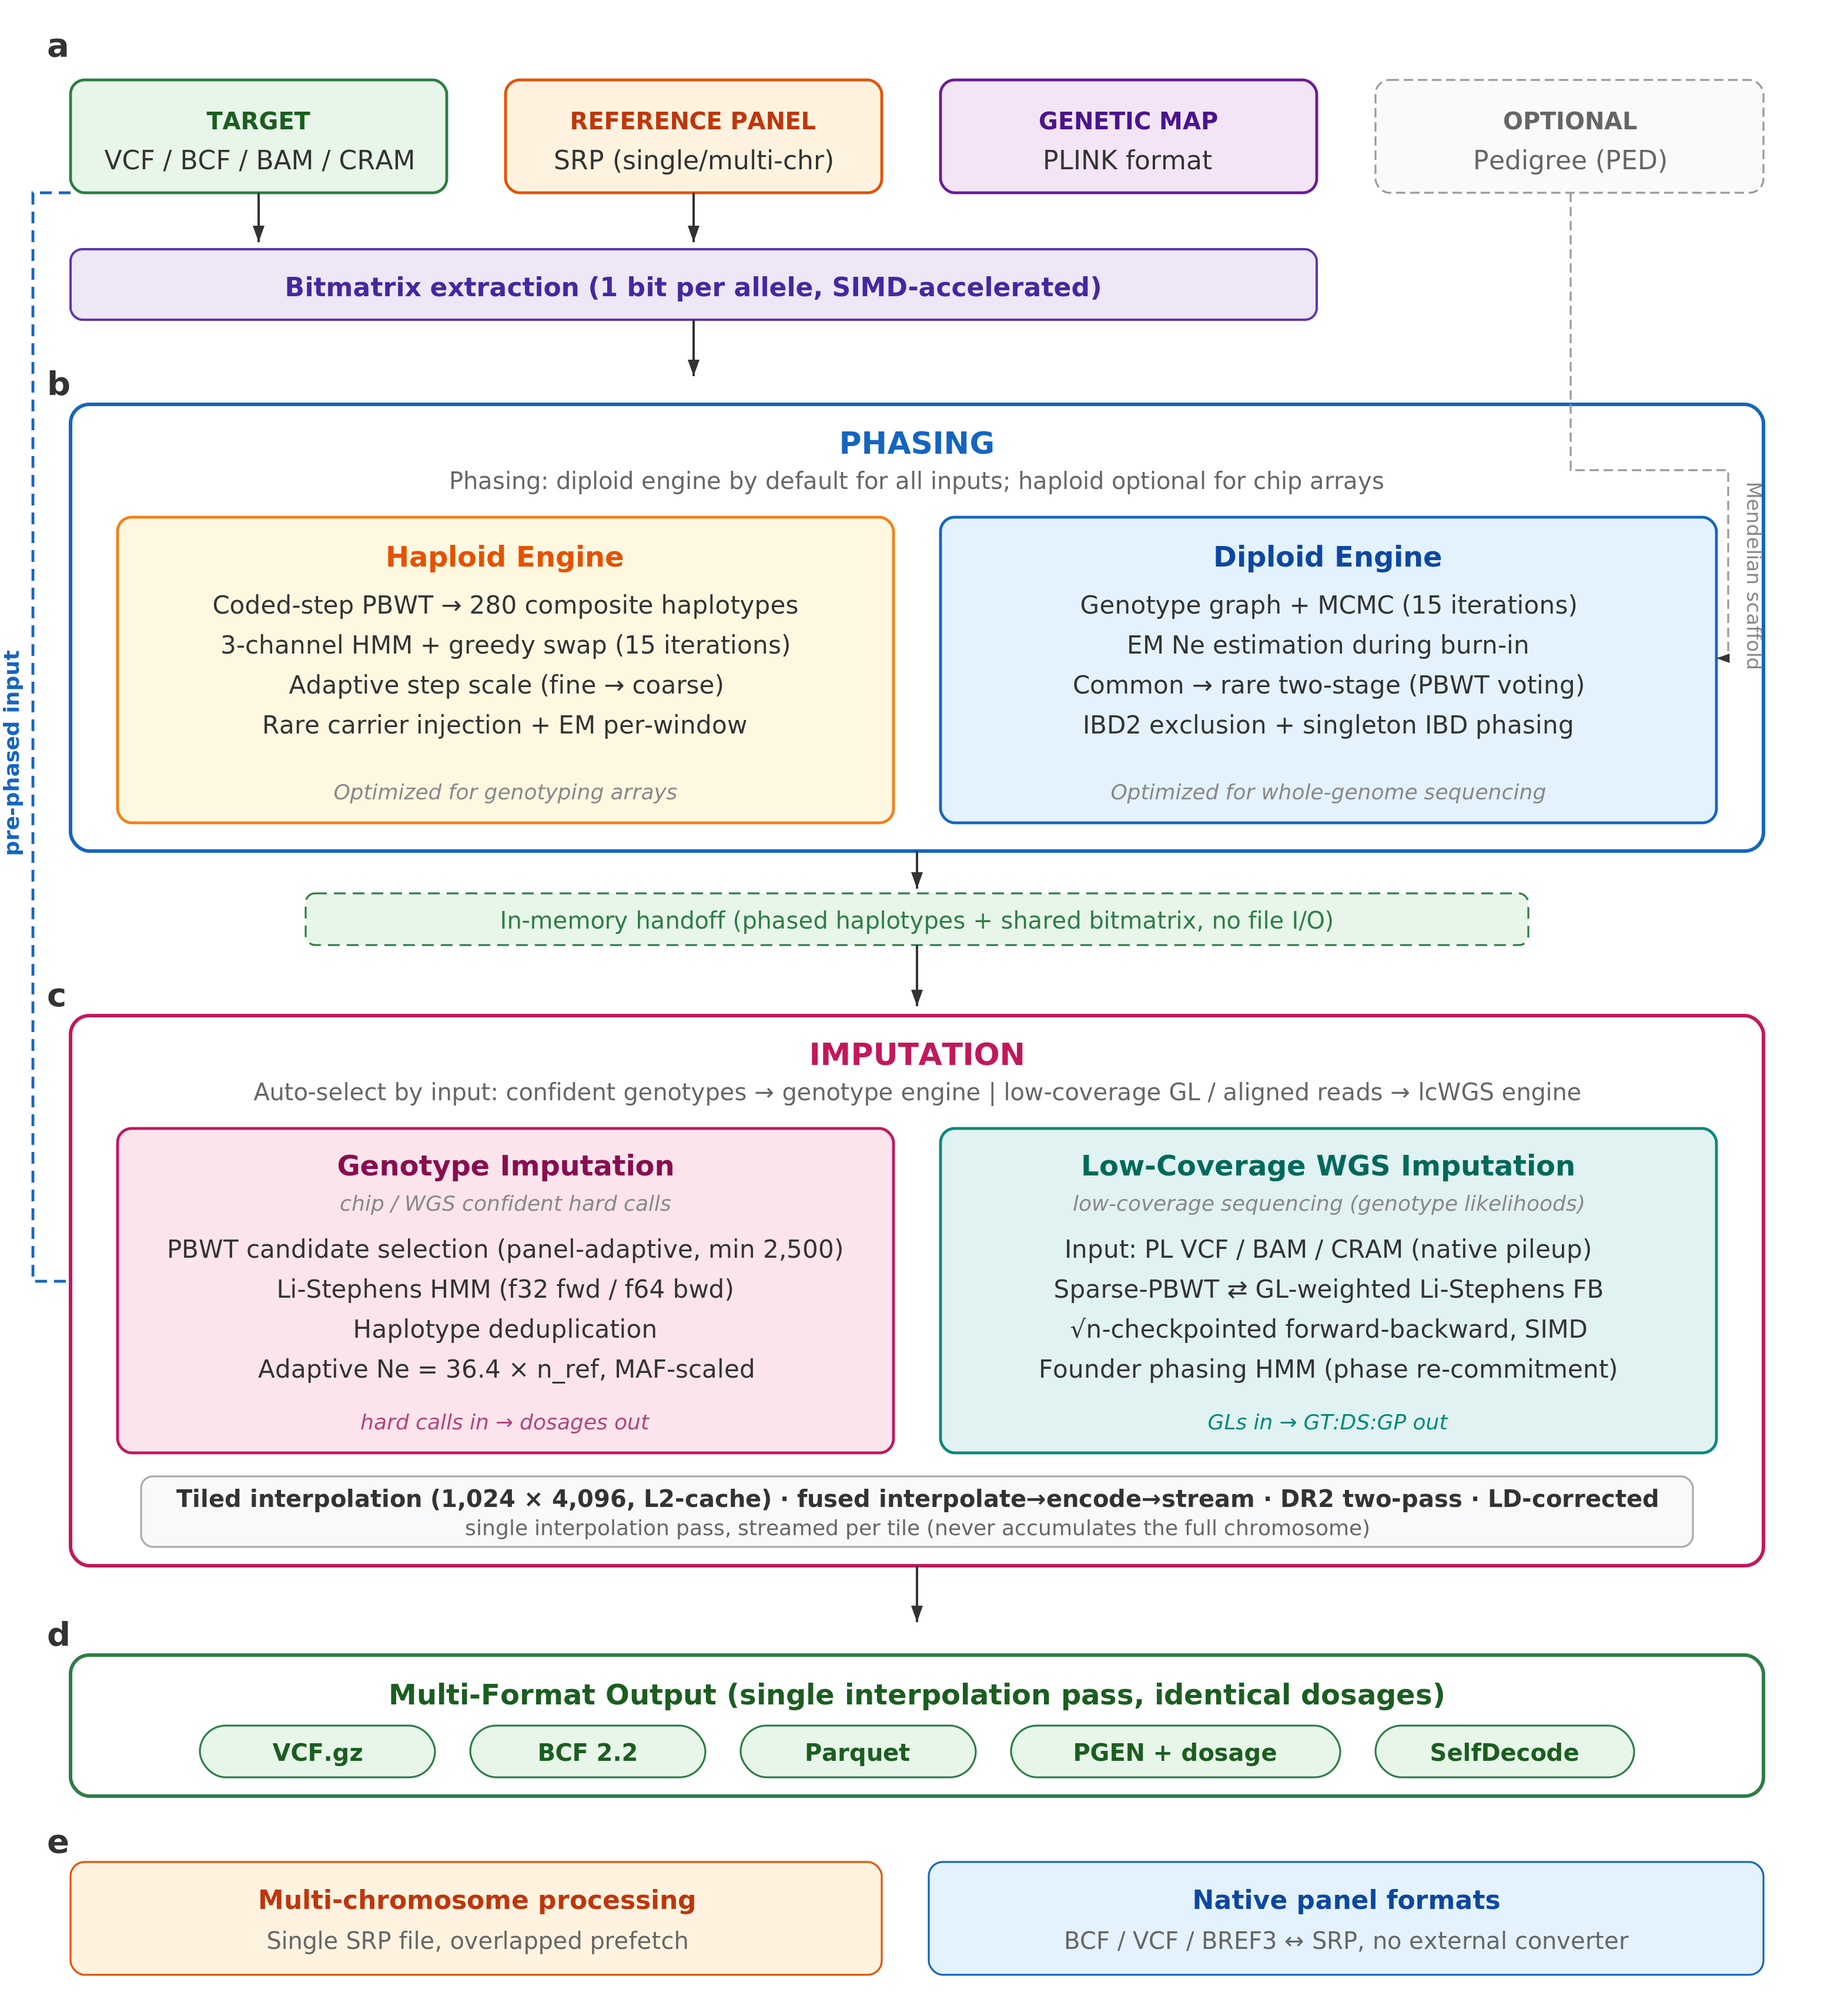
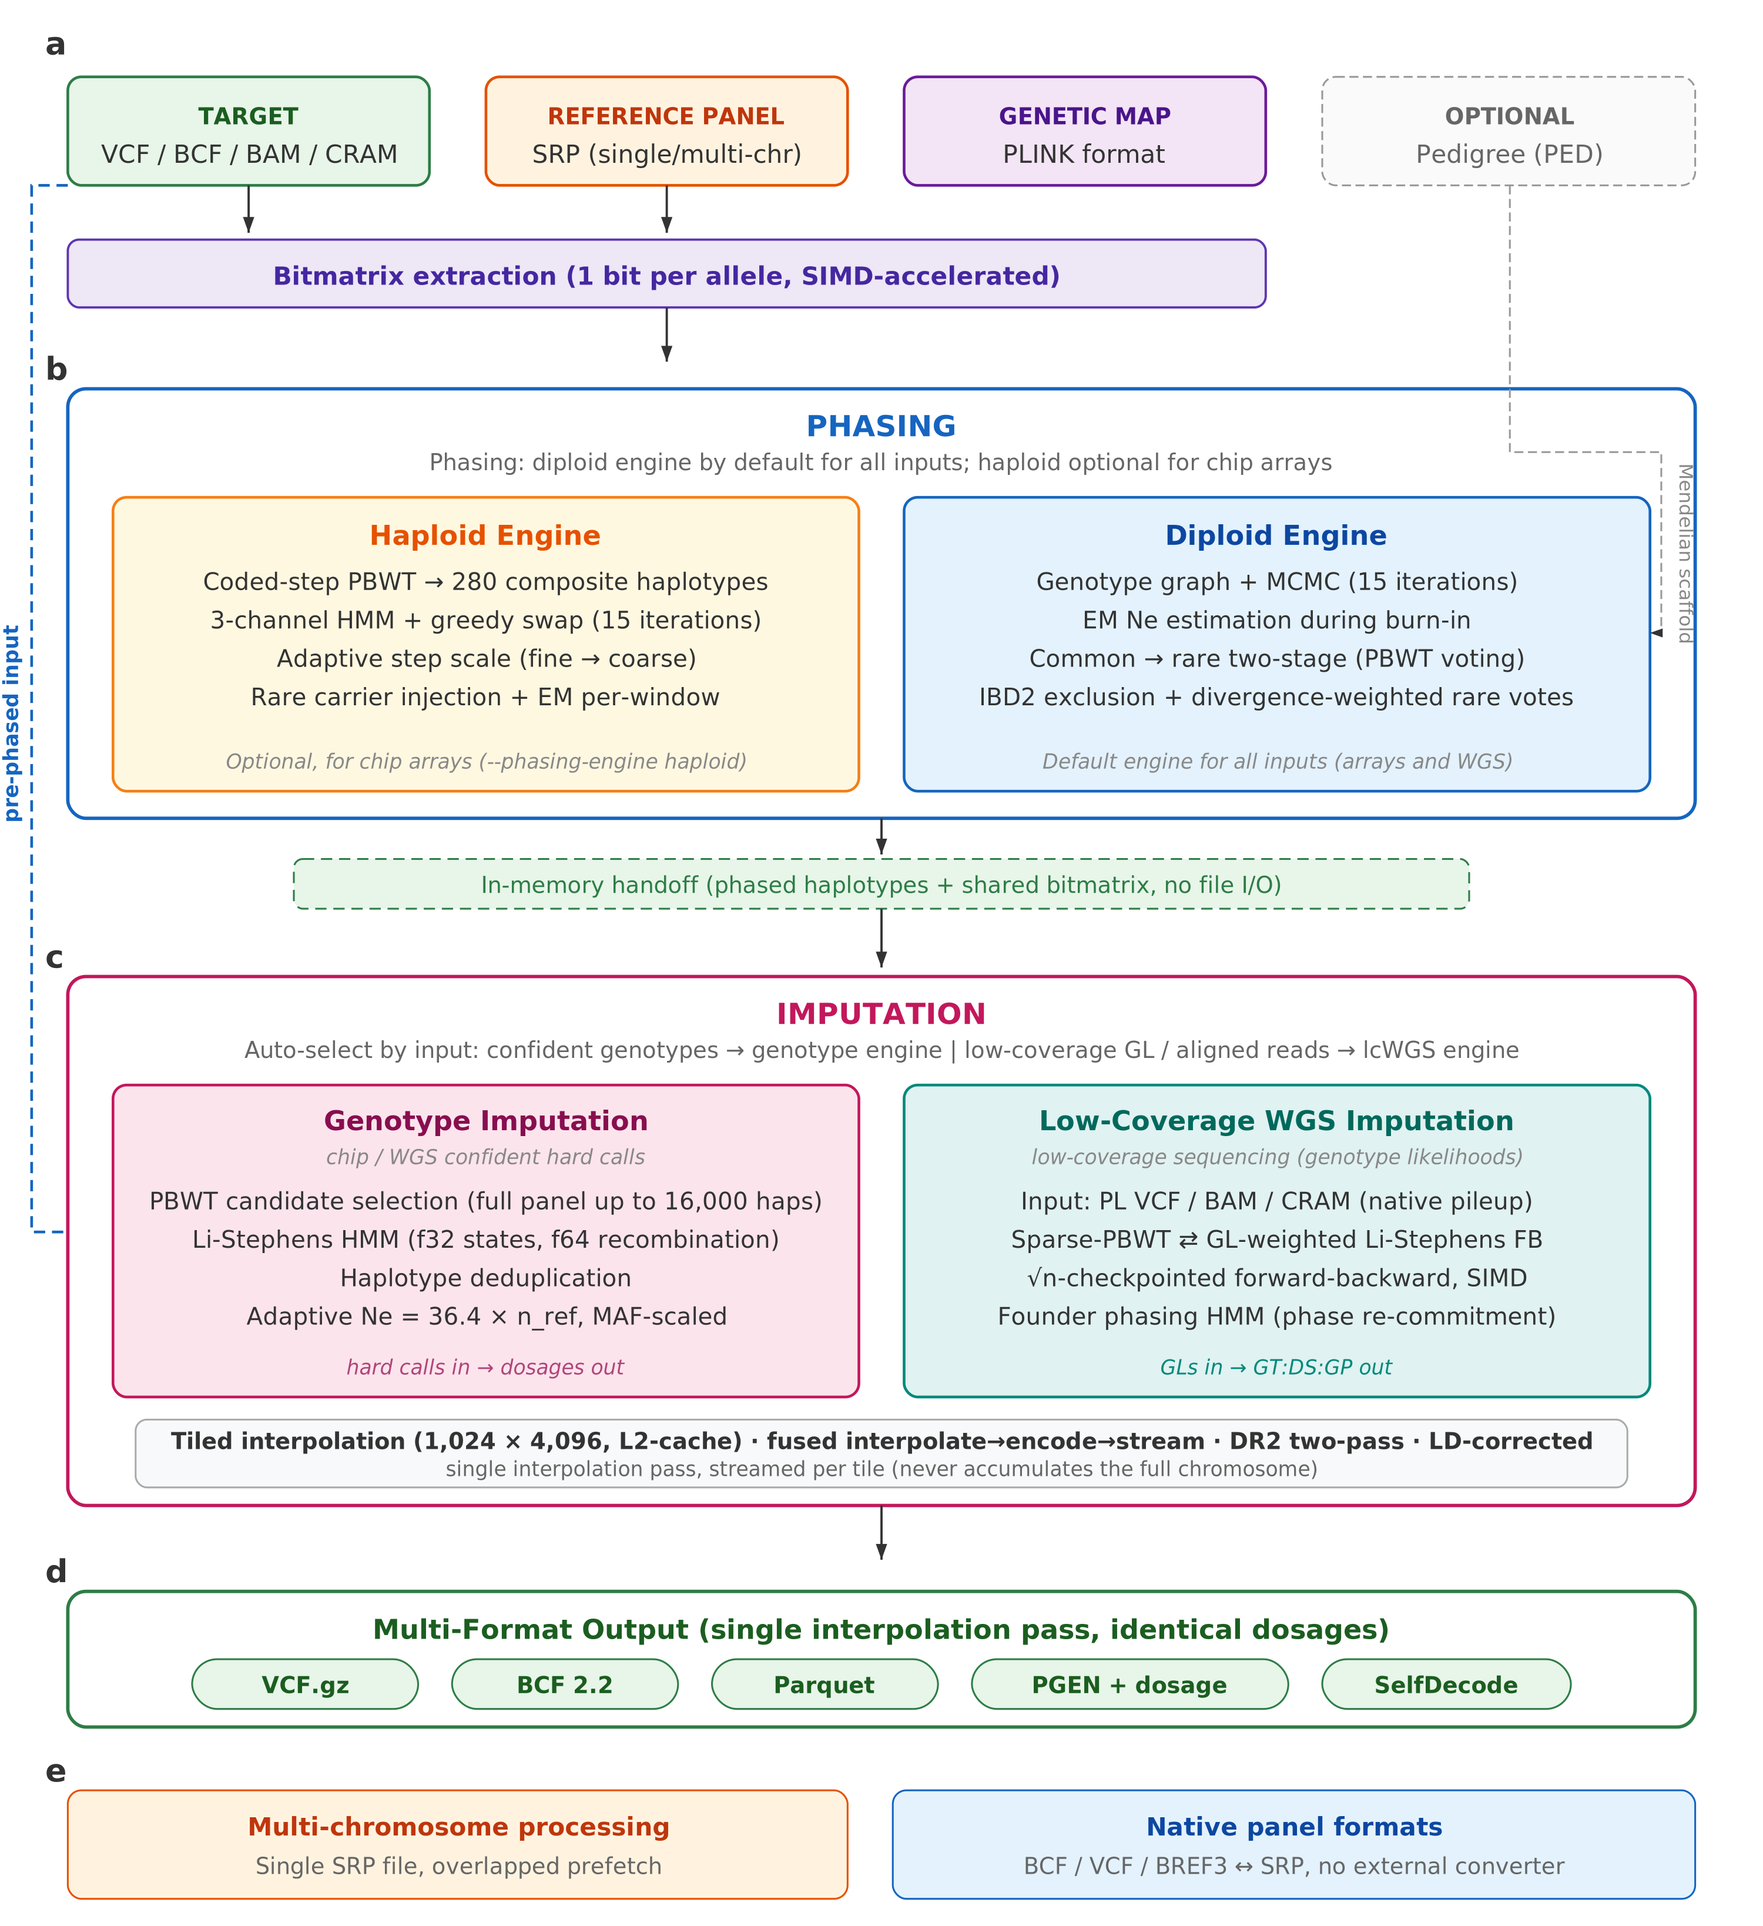
Figure 1 and Methods: diploid is the default engine for all inputs, singletons by PBWT match length, full panel up to 16,000 haplotypes, f32 states with f64 recombination, Ne bound array-only

diff --git a/paper/selphi2_paper.md b/paper/selphi2_paper.md
@@ -30,7 +30,7 @@ We describe the algorithms (Methods) and then benchmark the likelihood engine on
 
 ![Figure 1](figure1_pipeline.png)
 
-**Figure 1. Overview of the Selphi 2 pipeline.** The pipeline accepts unphased or phased target genotypes in VCF/BCF format, a reference panel in SRP format (single- or multi-chromosome), and a genetic map. If the input is unphased, phasing is performed first; by default the diploid engine (genotype graph with MCMC sampling) is used for all inputs, with the haploid engine (composite HMM with three-channel greedy swap) selectable for chip arrays. The diploid engine operates in two stages: common variants (MAF ≥ 0.1%) are phased via iterative MCMC with EM-estimated effective population size, then rare variants are phased onto the common-variant scaffold using bidirectional PBWT sweeps with IBD2-aware neighbor exclusion and singleton IBD phasing. When pedigree information is available, Mendelian constraints are applied before the HMM to pre-phase deterministic parent-child configurations. Phased haplotypes are passed directly in memory to the imputation stage with no intermediate file I/O. Imputation uses a coded-step PBWT to select candidate reference haplotypes per target, with the per-target candidate-set size set automatically as a function of panel size and panel diversity (Candidate selection and HMM, below). After haplotype deduplication, a Li-Stephens HMM (32-bit state vectors in both passes, with 64-bit recombination terms and row sums) computes per-site posterior weights, with an effective population size that scales linearly with panel size ($N_e \approx 36.4 \times n_\text{ref}$, consistent across panels from 5,000 to 171,000 haplotypes) and is further adjusted per site by minor allele frequency. The HMM weights are interpolated to full reference-panel density using cache-friendly 2D tiles, with interpolation fused to output encoding so that no chromosome-wide interpolated dosage matrix is materialized. Five output formats are supported from a single interpolation pass: VCF.gz, BCF 2.2, Apache Parquet, PLINK2 PGEN with dosage, and SelfDecode per-sample Parquet archives. For sequencing input at low or uneven depth (uniform 0.5-4$\times$ low-pass genomes, or capture libraries with a low-pass off-target background), a dedicated genotype-likelihood-aware engine (`--lcwgs` / `--engine lcwgs`) replaces the standard phase-and-impute path: it accepts a PL VCF/BCF or aligned reads (BAM/CRAM, with native pileup), and alternates sparse-PBWT haplotype selection with a GL-weighted Li-Stephens forward-backward ($\sqrt{n}$-checkpointed, SIMD-accelerated) and an eight-founder phasing HMM re-committed at every Gibbs iteration, emitting GT:DS:GP against the same reference panel and output formats. Auxiliary capabilities include multi-chromosome processing from a single SRP file with overlapped prefetch.
+**Figure 1. Overview of the Selphi 2 pipeline.** The pipeline accepts unphased or phased target genotypes in VCF/BCF format, a reference panel in SRP format (single- or multi-chromosome), and a genetic map. If the input is unphased, phasing is performed first; by default the diploid engine (genotype graph with MCMC sampling) is used for all inputs, with the haploid engine (composite HMM with three-channel greedy swap) selectable for chip arrays. The diploid engine operates in two stages: common variants (MAF ≥ 0.1%) are phased via iterative MCMC with EM-estimated effective population size, then rare variants are phased onto the common-variant scaffold using bidirectional PBWT sweeps with IBD2-aware neighbor exclusion, the second pass weighting neighbours by PBWT match length so that a singleton is placed on the haplotype with the shorter match. When pedigree information is available, Mendelian constraints are applied before the HMM to pre-phase deterministic parent-child configurations. Phased haplotypes are passed directly in memory to the imputation stage with no intermediate file I/O. Imputation uses a coded-step PBWT to select candidate reference haplotypes per target, with the per-target candidate-set size set automatically as a function of panel size and panel diversity (Candidate selection and HMM, below). After haplotype deduplication, a Li-Stephens HMM (32-bit state vectors in both passes, with 64-bit recombination terms and row sums) computes per-site posterior weights, with an effective population size that scales linearly with panel size ($N_e \approx 36.4 \times n_\text{ref}$, consistent across panels from 5,000 to 171,000 haplotypes) and is further adjusted per site by minor allele frequency. The HMM weights are interpolated to full reference-panel density using cache-friendly 2D tiles, with interpolation fused to output encoding so that no chromosome-wide interpolated dosage matrix is materialized. Five output formats are supported from a single interpolation pass: VCF.gz, BCF 2.2, Apache Parquet, PLINK2 PGEN with dosage, and SelfDecode per-sample Parquet archives. For sequencing input at low or uneven depth (uniform 0.5-4$\times$ low-pass genomes, or capture libraries with a low-pass off-target background), a dedicated genotype-likelihood-aware engine (`--lcwgs` / `--engine lcwgs`) replaces the standard phase-and-impute path: it accepts a PL VCF/BCF or aligned reads (BAM/CRAM, with native pileup), and alternates sparse-PBWT haplotype selection with a GL-weighted Li-Stephens forward-backward ($\sqrt{n}$-checkpointed, SIMD-accelerated) and an eight-founder phasing HMM re-committed at every Gibbs iteration, emitting GT:DS:GP against the same reference panel and output formats. Auxiliary capabilities include multi-chromosome processing from a single SRP file with overlapped prefetch.
 
 # **Methods**
 
@@ -66,7 +66,7 @@ Phase is sampled by MCMC on the genotype graph over 15 iterations in the scheme 
 
 By default the diploid engine forms a small **intra-run phase ensemble**, which integrates over phase uncertainty for one extra imputation pass and no extra phasing. Each main MCMC iteration draws a complete diplotype configuration, a sample from the phase posterior that the chain would otherwise discard in favour of the final Viterbi solve. The Viterbi solve and a thinned subset of these samples are kept as N phase members (default N = 2) from the one chain. Each member is carried through rare-variant phasing and imputation, and the per-haplotype Li-Stephens copying weights are averaged across members before interpolation. Because the dosage is linear in those weights (dosage = Σ w · panel allele, normalised by Σ w), the averaged weights give the members' mean dosage. The identity is exact up to the per-row sparsity threshold on the weights, whose effect we measured at $10^{-6}$ in per-sample $R^2$ on chromosome 22. The cost is one phasing plus N imputation passes, with the panel read and interpolation shared, rather than the N phasings of a conventional ensemble. On the consumer-array benchmark N = 2 adds ≈25-30 % wall time and raises the diploid engine's genome-wide SNP $R^2$ from 0.9588 to 0.9605 on top of the no-call fix (0.9609 in the current release; Results, Table 5). The ensemble is off (N = 1) under `--sample-batch-size` and `--phase-only`. The haploid engine does not use it, because its greedy swap converges to one solution rather than sampling a posterior.
 
-During burn-in the effective population size ($N_e$) is re-estimated from the genotype graphs by inverting the Li-Stephens relation^2^ $\mathrm{rate} \approx 0.04 \times N_e \times d / n_\text{haps}$, where $d$ is the mean inter-marker distance in cM. The rate used is the number of diplotype-graph transitions per variant, an edge count rather than a fraction of sites, so the estimate overshoots and settles at its upper bound. That bound, $\min(77.5 \times n_\text{haps}, 10^6)$ with a floor of 1,000, therefore sets the phasing $N_e$: the per-cM switch rate is constant below 12,904 haplotypes and decays as $1/n_\text{haps}$ above. An update is applied only if it changes $N_e$ by more than 5%.
+During burn-in the effective population size ($N_e$) is re-estimated from the genotype graphs by inverting the Li-Stephens relation^2^ $\mathrm{rate} \approx 0.04 \times N_e \times d / n_\text{haps}$, where $d$ is the mean inter-marker distance in cM. The rate used is the number of diplotype-graph transitions per variant, an edge count rather than a fraction of sites, so the estimate overshoots and settles at its upper bound. That bound therefore sets the phasing $N_e$. For array targets it is $\min(77.5 \times n_\text{haps}, 10^6)$ with a floor of 1,000, so the per-cM switch rate is constant below 12,904 haplotypes and decays as $1/n_\text{haps}$ above; for targets at whole-genome density (at least 1,000 scaffold sites per Mb), including the trio benchmark, it is a flat $10^6$, because the scaled bound raised switch error on dense data. An update is applied only if it changes $N_e$ by more than 5%.
 
 **Rare variant phasing (diploid).**
 
